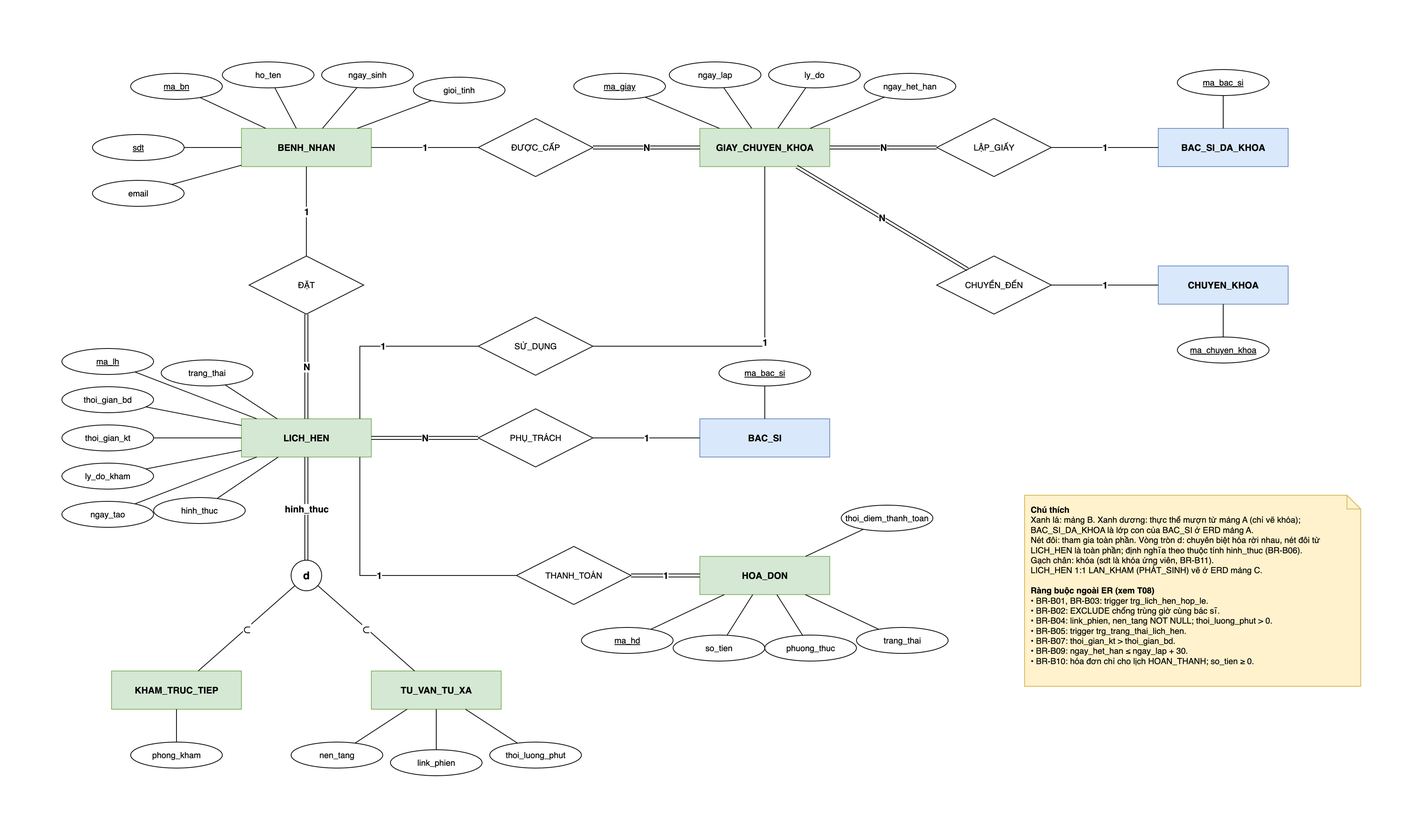
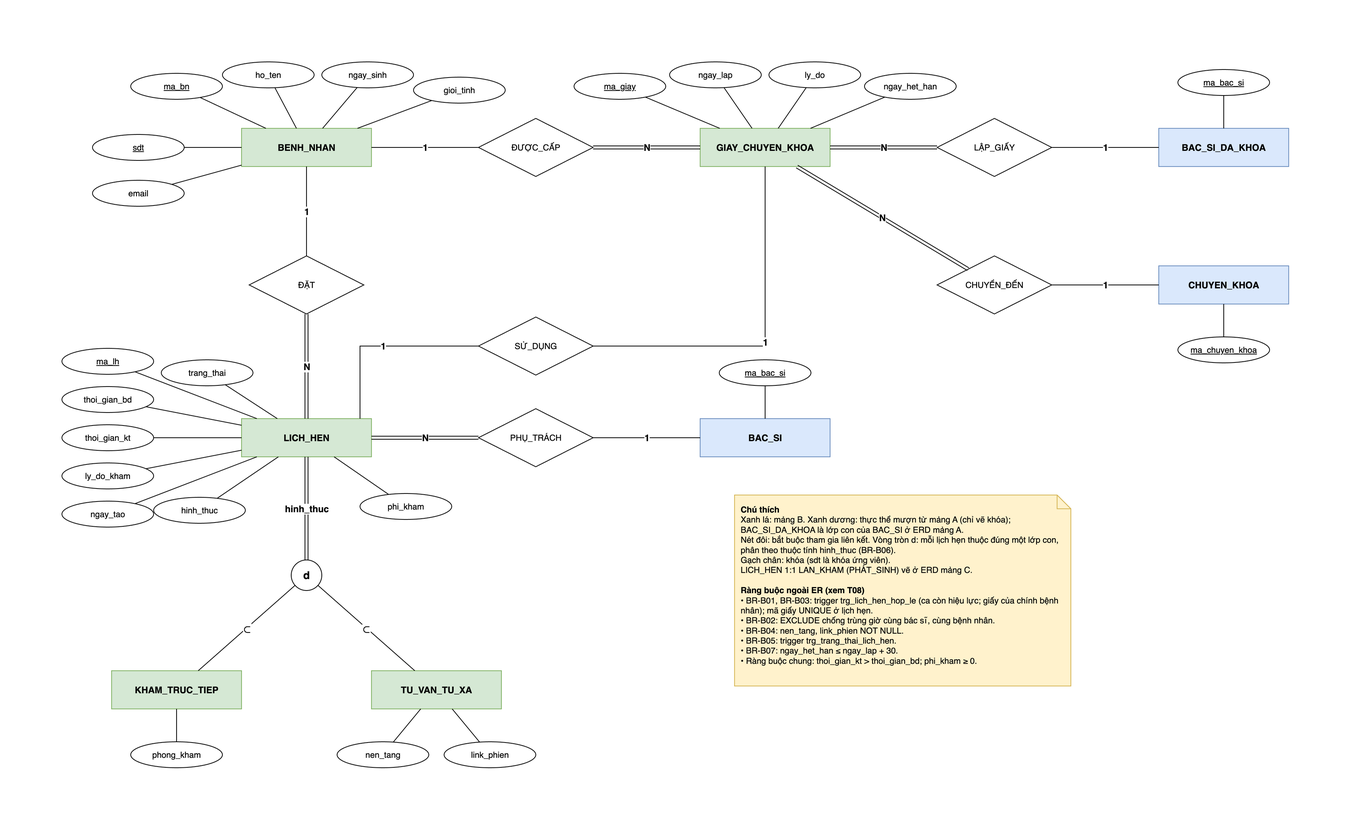
T03 T08 T12: mảng B – khảo sát, quy tắc nghiệp vụ, ERD
- T03: khảo sát theo ISO/IEC/IEEE 29148; bổ sung quy định khám từ xa, phiếu khám điện tử
- T08: thu gọn còn BR-B01…B07, viết theo Business Rules Manifesto/SBVR
- T12: ERD B bỏ HOA_DON (thành phi_kham), cập nhật ghi chú

diff --git a/docs/br/T08_BR_MangB.md b/docs/br/T08_BR_MangB.md
@@ -4,63 +4,84 @@
 |---|---|
 | Mã việc | T08 (GĐ0, tuần 2) |
 | Người viết / review | Lê Ngọc Khôi / Đặng Hữu Khoa |
-| Dùng cho | Báo cáo mục 1.2.2 (gộp ở T10), ERD mảng B (T12), test 5.1 (T43) |
-| Căn cứ | [T03 – khảo sát mảng B](../khao-sat/T03_KhaoSat_MangB.md), sườn báo cáo v0 |
+| Ngày | 08/10/2026; cập nhật 19/10/2026 theo phạm vi đã chốt |
+| Chuẩn tham chiếu | Business Rules Manifesto (Business Rules Group), SBVR (OMG); thuộc tính yêu cầu theo ISO/IEC/IEEE 29148:2018 |
+| Căn cứ | [T03 – khảo sát mảng B](../khao-sat/T03_KhaoSat_MangB.md) |
+| Dùng cho | Báo cáo mục 1.2.2, T12 (ERD mảng B), T36 (trigger/view), T43 (kiểm thử) |
 
-BR-B01…B05 giữ đúng số hiệu như bản v0, vì mục 4.1.4 và 5.1 đã tham chiếu. Bảng này thay cho bảng quy tắc ở mục 5 của T03.
+Nguyên tắc viết: mỗi quy tắc là một phát biểu khẳng định, dùng thuật ngữ ở mục 1, không phụ thuộc cách cài đặt; cơ chế cài đặt tách riêng ở mục 3. Số hiệu BR-B01…B05 giữ nguyên vì báo cáo đã tham chiếu.
 
-## Thuật ngữ dùng trong quy tắc
+## 1. Thuật ngữ
 
-- **Lịch hẹn còn hiệu lực**: lịch hẹn có trạng thái khác HUY và VANG_MAT.
-- **Giao nhau về thời gian**: hai khoảng [bắt đầu, kết thúc) có phần chung. Hẹn nối tiếp nhau, ví dụ 9:00–9:15 và 9:15–9:30, không bị tính là giao nhau.
-
-## Bảng quy tắc (dán vào mục 1.2.2)
-
-| Mã | Phát biểu quy tắc | Loại ràng buộc | Cơ chế đảm bảo |
-|---|---|---|---|
-| BR-B01 | Thời gian của một lịch hẹn phải nằm trọn trong một ca làm việc của bác sĩ được hẹn | Nghiệp vụ (liên bảng, mảng A) | Trigger `trg_lich_hen_hop_le` |
-| BR-B02 | Hai lịch hẹn còn hiệu lực của cùng một bác sĩ không được giao nhau về thời gian | Nghiệp vụ | `EXCLUDE USING gist` (cần extension `btree_gist`) |
-| BR-B03 | Lịch hẹn với bác sĩ chuyên khoa phải kèm giấy chuyển chuyên khoa còn hạn, đúng chuyên khoa, nếu bệnh nhân **chưa từng** có lịch hẹn HOAN_THANH ở chuyên khoa đó (tái khám không cần giấy) | Nghiệp vụ | Trigger `trg_lich_hen_hop_le` |
-| BR-B04 | Lịch hẹn tư vấn từ xa bắt buộc có nền tảng, đường dẫn phiên và thời lượng > 0 phút | Miền giá trị | NOT NULL + CHECK |
-| BR-B05 | Lịch hẹn mới luôn ở trạng thái DA_DAT. Trạng thái chỉ được chuyển: DA_DAT → DA_XAC_NHAN hoặc HUY; DA_XAC_NHAN → HOAN_THANH, HUY hoặc VANG_MAT. HOAN_THANH, HUY, VANG_MAT là trạng thái cuối | Nghiệp vụ (chuyển trạng thái) | CHECK miền giá trị + DEFAULT + trigger `trg_trang_thai_lich_hen` |
-| BR-B06 | Mỗi lịch hẹn thuộc đúng một hình thức: khám trực tiếp hoặc tư vấn từ xa | Phân lớp (d, total) | Cột phân loại + CHECK; chi tiết theo phương án ánh xạ ở 2.2 |
-| BR-B07 | Thời gian kết thúc của lịch hẹn phải sau thời gian bắt đầu | Miền giá trị | CHECK |
-| BR-B08 | Mỗi giấy chuyển chuyên khoa chỉ được dùng cho tối đa một lịch hẹn | Bản số | UNIQUE trên cột mã giấy của lịch hẹn |
-| BR-B09 | Giấy chuyển chuyên khoa chỉ do bác sĩ đa khoa lập, hiệu lực tối đa 30 ngày kể từ ngày lập | Phân lớp + miền giá trị | FK tới lớp bác sĩ đa khoa (mảng A) + CHECK |
-| BR-B10 | Mỗi lịch hẹn có tối đa một hóa đơn, chỉ lập cho lịch hẹn HOAN_THANH, số tiền ≥ 0 | Bản số + nghiệp vụ | UNIQUE + CHECK + trigger |
-| BR-B11 | Số điện thoại của bệnh nhân không trùng nhau | Khóa (khóa ứng viên) | UNIQUE |
-
-## Cách kiểm chứng (đầu vào T43)
-
-Mỗi quy tắc có ít nhất một thao tác sai phải bị CSDL từ chối:
-
-| Mã | Thao tác thử (phải bị từ chối) |
+| Thuật ngữ | Định nghĩa |
 |---|---|
-| BR-B01 | INSERT lịch hẹn 18:00–18:15 khi ca của bác sĩ là 07:00–11:00 |
-| BR-B02 | INSERT lịch 9:00–9:30 khi bác sĩ đã có lịch DA_XAC_NHAN 9:15–9:45. Ngược lại, nếu lịch cũ đã HUY thì INSERT phải **thành công** |
-| BR-B03 | INSERT lịch với BS chuyên khoa Tim mạch cho bệnh nhân chưa từng khám Tim mạch, không kèm giấy chuyển |
-| BR-B04 | INSERT tư vấn từ xa có link phiên NULL, hoặc thời lượng = 0 |
-| BR-B05 | UPDATE lịch hẹn từ HOAN_THANH về DA_DAT; UPDATE từ DA_DAT thẳng sang HOAN_THANH |
-| BR-B06 | Gán một lịch hẹn vào cả hai lớp trực tiếp và từ xa |
-| BR-B07 | INSERT lịch hẹn có kết thúc = bắt đầu |
-| BR-B08 | Dùng cùng một mã giấy chuyển cho lịch hẹn thứ hai |
-| BR-B09 | INSERT giấy chuyển do bác sĩ chuyên khoa lập; hoặc giấy có ngày hết hạn = ngày lập + 45 |
-| BR-B10 | INSERT hóa đơn cho lịch hẹn DA_XAC_NHAN; INSERT hóa đơn thứ hai cho cùng lịch hẹn |
-| BR-B11 | INSERT bệnh nhân trùng số điện thoại |
+| Ca làm việc | Khoảng thời gian bác sĩ được xếp làm việc |
+| Ca làm việc còn hiệu lực | Khoảng thời gian làm việc đã xếp và chưa bị hủy |
+| Lịch hẹn còn hiệu lực | Cuộc hẹn chưa bị hủy và không phải trường hợp bệnh nhân vắng mặt |
+| Giao nhau về thời gian | Hai khoảng thời gian có phần chung; hai cuộc hẹn nối tiếp nhau, cuộc trước kết thúc đúng lúc cuộc sau bắt đầu, không tính là giao nhau |
+| Tư vấn từ xa | Khám qua cuộc gọi video thay vì đến phòng khám |
+| Giấy chuyển chuyên khoa | Giấy do bác sĩ đa khoa lập để bệnh nhân được khám bác sĩ chuyên khoa trong cùng phòng khám |
+| Tái khám | Bệnh nhân đã từng được khám xong ở cùng chuyên khoa |
 
-## Liên kết mục tiêu (mục 1.1)
+## 2. Danh sách quy tắc
 
-- MT-02 (lịch hẹn không xung đột): BR-B01, BR-B02, BR-B07
-- MT-03 (khám trực tiếp và từ xa): BR-B04, BR-B06
+Loại theo SBVR: **cấu trúc** là điều luôn đúng với dữ liệu; **hành vi** là điều kiện ràng buộc một thao tác.
 
-## Phụ thuộc mảng A (nhờ Hữu Khoa xác nhận khi review)
+| Mã | Phát biểu quy tắc | Loại | Lý do | Nguồn |
+|---|---|---|---|---|
+| BR-B01 | Thời gian của mỗi lịch hẹn phải nằm trọn trong một ca làm việc còn hiệu lực của bác sĩ được hẹn | Hành vi | Bác sĩ chỉ khám trong giờ làm việc | T03 bước 1; MT-02 |
+| BR-B02 | Hai lịch hẹn còn hiệu lực của cùng một bác sĩ, hoặc của cùng một bệnh nhân, không được giao nhau về thời gian | Cấu trúc | Bác sĩ không khám hai bệnh nhân cùng lúc; bệnh nhân không khám hai nơi cùng lúc | T03 bước 1; MT-02 |
+| BR-B03 | Lịch hẹn với bác sĩ chuyên khoa phải kèm một giấy chuyển chuyên khoa cấp cho chính bệnh nhân đó, còn hạn, đúng chuyên khoa và chưa dùng cho lịch hẹn khác, trừ khi là tái khám | Hành vi | Bệnh nhân khám chuyên khoa lần đầu phải qua bác sĩ đa khoa | T03 bước 5 |
+| BR-B04 | Mỗi lịch hẹn tư vấn từ xa phải có nền tảng và đường dẫn phiên | Cấu trúc | Bệnh nhân cần thông tin để vào cuộc gọi | T03 bước 4; MT-03 |
+| BR-B05 | Lịch hẹn mới luôn ở trạng thái đã đặt; chỉ được chuyển từ đã đặt sang đã xác nhận hoặc hủy, từ đã xác nhận sang hoàn thành, hủy hoặc vắng mặt; hoàn thành, hủy, vắng mặt là trạng thái cuối | Hành vi | Không sửa lại lịch hẹn đã kết thúc | T03 bước 2, sơ đồ trạng thái |
+| BR-B06 | Mỗi lịch hẹn thuộc đúng một hình thức: khám trực tiếp hoặc tư vấn từ xa | Cấu trúc | Mỗi hình thức có thông tin riêng | T03 bước 1; MT-03 |
+| BR-B07 | Giấy chuyển chuyên khoa chỉ do bác sĩ đa khoa lập và có hiệu lực tối đa 30 ngày kể từ ngày lập | Cấu trúc | Phân biệt vai trò bác sĩ đa khoa và chuyên khoa | T03 bước 5 |
 
-- BR-B01 cần bảng ca làm việc có bác sĩ, ngày, giờ bắt đầu, giờ kết thúc.
-- BR-B03 cần biết bác sĩ chuyên khoa thuộc chuyên khoa nào.
-- BR-B09 cần tham chiếu được riêng lớp bác sĩ đa khoa. Điều này phụ thuộc phương án ánh xạ 8A/8B/8C. Nếu chọn phương án gộp một bảng (8C) thì BR-B09 chuyển sang dùng trigger.
+## 3. Cơ chế đảm bảo
 
-## Đã chốt so với T03
+| Mã | Cơ chế trong CSDL | Ghi chú |
+|---|---|---|
+| BR-B01 | Trigger `trg_lich_hen_hop_le` trên INSERT/UPDATE `LICH_HEN`: tồn tại ca làm việc khác `HUY` của bác sĩ chứa khoảng thời gian hẹn | Liên bảng với mảng A |
+| BR-B02 | Hai ràng buộc `EXCLUDE USING gist`: (`ma_bac_si` WITH =, khoảng thời gian WITH &&) và (`ma_bn` WITH =, khoảng thời gian WITH &&), chỉ áp dụng cho trạng thái khác `HUY`, `VANG_MAT` | Cần extension `btree_gist` |
+| BR-B03 | Trigger `trg_lich_hen_hop_le` kiểm tra giấy cùng `ma_bn` với lịch hẹn, còn hạn, đúng chuyên khoa, và trường hợp tái khám; UNIQUE trên cột mã giấy của `LICH_HEN` | Tái khám: đã có lịch `HOAN_THANH` ở cùng chuyên khoa |
+| BR-B04 | `NOT NULL` trên `nen_tang`, `link_phien` | Thời lượng tính từ thời điểm bắt đầu, kết thúc của lịch hẹn, không lưu riêng |
+| BR-B05 | `CHECK` miền giá trị + `DEFAULT 'DA_DAT'` + trigger `trg_trang_thai_lich_hen` | Trạng thái: `DA_DAT`, `DA_XAC_NHAN`, `HOAN_THANH`, `HUY`, `VANG_MAT` |
+| BR-B06 | Cột phân loại `hinh_thuc` + `CHECK` | Chi tiết theo phương án ánh xạ ở 2.2 |
+| BR-B07 | FK tới lớp bác sĩ đa khoa + `CHECK (ngay_het_han <= ngay_lap + 30)` | Nếu chọn ánh xạ 8C (một bảng bác sĩ) thì phần bác sĩ đa khoa chuyển sang trigger |
 
-- Giờ hẹn lưu dạng khoảng thời gian (bắt đầu, kết thúc) và dùng EXCLUDE để chống trùng. Không làm bảng khung giờ.
-- Tái khám được miễn giấy chuyển. "Tái khám" nghĩa là bệnh nhân đã có lịch hẹn HOAN_THANH ở cùng chuyên khoa.
-- Không có thực thể BAO_HIEM_Y_TE trong mảng B.
+## 4. Kiểm chứng (đầu vào T43)
+
+Chạy trên dữ liệu giả lập, ghi rõ bản ghi tiền điều kiện và kết quả thực tế.
+
+| Mã test | Quy tắc | Thao tác sai phải bị từ chối | Thao tác hợp lệ đi kèm |
+|---|---|---|---|
+| TC-02 | BR-B01 | Đặt lịch 18:00–18:15 khi ca của bác sĩ là 07:00–11:00; hoặc đặt vào ca đã hủy | Đặt lịch 08:00–08:15 trong ca còn hiệu lực |
+| TC-01 | BR-B02 | Đặt lịch 9:00–9:30 khi bác sĩ, hoặc bệnh nhân, đã có lịch `DA_XAC_NHAN` 9:15–9:45 | Cùng thao tác khi lịch cũ đã `HUY` |
+| – | BR-B03 | Đặt lịch bác sĩ chuyên khoa Tim mạch cho bệnh nhân chưa từng khám Tim mạch, không kèm giấy; dùng giấy của bệnh nhân khác; hoặc dùng lại giấy đã gắn với lịch khác | Đặt lịch kèm giấy hợp lệ, hoặc tái khám không cần giấy |
+| – | BR-B04 | Tư vấn từ xa không có nền tảng hoặc link phiên | Tư vấn từ xa đủ nền tảng, link phiên |
+| – | BR-B05 | Chuyển `HOAN_THANH` về `DA_DAT`; chuyển `DA_DAT` thẳng sang `HOAN_THANH` | Chuyển `DA_DAT` → `DA_XAC_NHAN` → `HOAN_THANH` |
+| – | BR-B06 | Gán một lịch hẹn vào cả hai hình thức | Lịch hẹn thuộc đúng một hình thức |
+| – | BR-B07 | Giấy chuyển do bác sĩ chuyên khoa lập; hoặc ngày hết hạn = ngày lập + 45 | Giấy do bác sĩ đa khoa lập, hạn 30 ngày |
+
+TC-01, TC-02 giữ số hiệu như báo cáo; các quy tắc còn lại đánh mã test khi gộp `tests.sql`.
+
+## 5. Phụ thuộc mảng A, C
+
+| Quy tắc | Dùng từ mảng khác | Nội dung |
+|---|---|---|
+| BR-B01 | A: `CA_LAM_VIEC` | Ca làm việc có bác sĩ, thời điểm bắt đầu, kết thúc |
+| BR-B02 | A: `BAC_SI` | Khóa bác sĩ dùng trong EXCLUDE |
+| BR-B03 | A: `BAC_SI_CHUYEN_KHOA`, `CHUYEN_KHOA` | Chuyên khoa của bác sĩ được hẹn |
+| BR-B07 | A: `BAC_SI_DA_KHOA` | Phụ thuộc phương án ánh xạ phân lớp bác sĩ |
+| BR-B05 | C: BR-C02 dùng lại | Lần khám chỉ tạo cho lịch `HOAN_THANH` |
+
+## 6. Quyết định thiết kế đã chốt
+
+- Giờ hẹn lưu dạng khoảng thời gian (bắt đầu, kết thúc); không làm bảng khung giờ.
+- Chuyên khoa của lịch hẹn lấy qua bác sĩ, không lưu riêng.
+- Phí khám là thuộc tính `phi_kham` của lịch hẹn.
+- Không cấp số thứ tự khám; mỗi lịch hẹn có khoảng giờ riêng.
+- Tư vấn từ xa dùng chung lần khám, chẩn đoán, đơn thuốc với khám trực tiếp; không kiểm tra bệnh có thuộc danh mục được khám từ xa (Thông tư 30/2023/TT-BYT).
+- Giấy chuyển chuyên khoa là quy trình nội bộ trong một phòng khám, không liên quan chuyển người bệnh theo BHYT.
+- Lễ tân là người dùng hệ thống với role CSDL `r_le_tan`, không phải thực thể.
+- Các ràng buộc đơn giản nằm ở ràng buộc chung (báo cáo mục 1.2.4), vẫn cài trong DDL: thời gian kết thúc sau bắt đầu, `sdt` của bệnh nhân không trùng, `phi_kham` không âm.

diff --git a/docs/khao-sat/T03_KhaoSat_MangB.md b/docs/khao-sat/T03_KhaoSat_MangB.md
@@ -1,54 +1,44 @@
-# T03 – Ghi chú khảo sát mảng B: Bệnh nhân & Lịch hẹn
+# T03 – Báo cáo khảo sát mảng B: Bệnh nhân & Lịch hẹn
 
 | | |
 |---|---|
 | Mã việc | T03 (GĐ0, tuần 1) |
-| Người làm / review | Lê Ngọc Khôi / Nguyễn Đăng Khoa |
-| Ngày | 08/10/2026 |
+| Người thực hiện / review | Lê Ngọc Khôi / Nguyễn Đăng Khoa |
+| Ngày | 08/10/2026; cập nhật 19/10/2026 theo phạm vi đã chốt |
+| Chuẩn tham chiếu | ISO/IEC/IEEE 29148:2018 – thu thập và phân tích yêu cầu |
 | Dùng cho | T08 (BR-B), T12 (ERD mảng B) |
 
-Mục tiêu: rút ra **thực thể, thuộc tính, trạng thái và quy tắc** đủ cho một CSDL đồ án môn học. Không mô tả đầy đủ nghiệp vụ y tế thật.
+## 1. Thông tin khảo sát
 
-## 1. Phạm vi mảng B
-
-| Trong phạm vi | Ngoài phạm vi (đơn giản hóa) |
+| Mục | Nội dung |
 |---|---|
-| Hồ sơ bệnh nhân | Tài khoản đăng nhập, đặt hộ người thân |
-| Đặt lịch: khám trực tiếp / tư vấn từ xa | Cuộc gọi video thật (chỉ lưu link phiên) |
-| Chuyển chuyên khoa (quy trình nội bộ phòng khám) | Chuyển tuyến BHYT giữa các cơ sở |
-| Hóa đơn: 1 lịch hẹn – 1 hóa đơn | Cổng thanh toán thật, BHYT chi trả, hoàn tiền, hóa đơn điện tử theo luật thuế |
+| Mục tiêu | Xác định dữ liệu, trạng thái và quy tắc cần lưu cho việc đặt và quản lý lịch hẹn khám, đủ cho một CSDL đồ án môn học |
+| Phạm vi | Bệnh nhân, lịch hẹn khám trực tiếp / tư vấn từ xa, giấy chuyển chuyên khoa nội bộ, phí khám |
+| Ngoài phạm vi | Tài khoản đăng nhập, đặt hộ người thân, cuộc gọi video, BHYT |
+| Đối tượng khảo sát | Luồng đặt khám của 3 ứng dụng đặt khám phổ biến tại Việt Nam: Medpro, YouMed, BookingCare; quy định về khám bệnh, chữa bệnh từ xa và chuyển người bệnh |
+| Phương pháp | Phân tích ứng dụng hiện có (đi qua luồng đặt lịch, ghi lại các trường dữ liệu và trạng thái) và nghiên cứu văn bản pháp lý liên quan. Không phỏng vấn trực tiếp nhân viên y tế |
+| Giới hạn | Không mô tả đầy đủ nghiệp vụ y tế thật; quy trình ở mục 3 là phần chung của ba ứng dụng, đã lược bớt chi tiết riêng của từng nơi |
 
-## 2. Quy trình khảo sát được
+## 2. Bên liên quan
 
-Tham khảo các ứng dụng đặt khám Medpro, YouMed và BookingCare. Cả ba có luồng chung như sau:
+| Bên liên quan | Vai trò trong quy trình | Nhu cầu dữ liệu | Trong ERD |
+|---|---|---|---|
+| Bệnh nhân | Đặt lịch, khám trực tiếp hoặc tư vấn từ xa | Xem lịch hẹn của mình | Thực thể BENH_NHAN |
+| Lễ tân | Đặt hộ, xác nhận, hủy lịch hẹn | Thêm, sửa bệnh nhân và lịch hẹn; xem lịch làm việc bác sĩ | Không – role `r_le_tan` |
+| Bác sĩ đa khoa | Khám, lập giấy chuyển chuyên khoa | Xem lịch hẹn của mình; lập giấy chuyển | Thực thể BAC_SI_DA_KHOA (mảng A) |
+| Bác sĩ chuyên khoa | Khám theo chuyên khoa khi có giấy chuyển hoặc tái khám | Xem lịch hẹn của mình | Thực thể BAC_SI_CHUYEN_KHOA (mảng A) |
 
-1. **Đặt lịch**: chọn hình thức (trực tiếp / video) → chuyên khoa → bác sĩ → ngày, giờ còn trống trong lịch làm việc của bác sĩ → nhập thông tin bệnh nhân, lý do khám. Bệnh nhân tự đặt hoặc lễ tân đặt hộ.
-2. **Xác nhận**: lễ tân xác nhận lịch. Với tư vấn từ xa, các app bắt thanh toán trước rồi mới xác nhận.
-3. **Khám trực tiếp**: bệnh nhân đến đúng giờ, bác sĩ khám. Phần khám, chẩn đoán, kê đơn thuộc **mảng C** (LAN_KHAM).
+Tác nhân ghi "Không" là người dùng hệ thống: chỉ có role CSDL để phân quyền, không lưu thành thực thể trong ERD.
+
+## 3. Hiện trạng quy trình
+
+1. **Đặt lịch**: chọn hình thức (trực tiếp / video) → chuyên khoa → bác sĩ → ngày, giờ còn trống trong lịch làm việc của bác sĩ → xem phí khám → nhập thông tin bệnh nhân, lý do khám. Bệnh nhân tự đặt hoặc lễ tân đặt hộ.
+2. **Xác nhận**: lễ tân xác nhận lịch.
+3. **Khám trực tiếp**: bệnh nhân đến đúng giờ tại phòng khám, bác sĩ khám. Phần khám, chẩn đoán, kê đơn thuộc **mảng C**.
 4. **Tư vấn từ xa**: giống khám trực tiếp, nhưng bệnh nhân vào cuộc gọi qua link vào giờ hẹn.
 5. **Chuyển chuyên khoa**: bác sĩ đa khoa thấy cần thì lập giấy chuyển, bệnh nhân dùng giấy đó để đặt lịch chuyên khoa.
-6. **Thanh toán**: thu phí theo lịch hẹn, gồm tiền mặt, chuyển khoản và ví điện tử.
 
-Lưu ý cho báo cáo mục 1: từ 01/7/2025, Luật BHYT sửa đổi (51/2024/QH15) đã thay "chuyển tuyến" bằng "chuyển người bệnh giữa các cơ sở". Giấy chuyển chuyên khoa của nhóm chỉ là **quy trình nội bộ trong một phòng khám**, không liên quan BHYT.
-
-## 3. Thực thể đề xuất (đầu vào T12)
-
-| Thực thể | Thuộc tính chính | Liên kết |
-|---|---|---|
-| BENH_NHAN | ma_bn, ho_ten, ngay_sinh, gioi_tinh, sdt (UNIQUE), email | 1:N LICH_HEN |
-| LICH_HEN (lớp cha) | ma_lh, thoi_gian_bd, thoi_gian_kt, ly_do_kham, trang_thai, ngay_tao | N:1 BENH_NHAN, BAC_SI (A); 1:1 LAN_KHAM (C) |
-| KHAM_TRUC_TIEP (lớp con) | phong_kham | ISA LICH_HEN |
-| TU_VAN_TU_XA (lớp con) | nen_tang, link_phien, thoi_luong_phut | ISA LICH_HEN |
-| GIAY_CHUYEN_KHOA | ma_giay, ngay_lap, ly_do, ngay_het_han | N:1 BENH_NHAN, BAC_SI_DA_KHOA (A), CHUYEN_KHOA (A); 0..1 LICH_HEN dùng giấy |
-| HOA_DON | ma_hd, so_tien, phuong_thuc, trang_thai, thoi_diem_thanh_toan | 1:1 LICH_HEN |
-
-- Phân lớp LICH_HEN → {KHAM_TRUC_TIEP, TU_VAN_TU_XA}: **disjoint, total** (mỗi lịch hẹn có đúng một hình thức). Đây là điểm EER của mảng B.
-- Chuyên khoa của lịch hẹn lấy qua bác sĩ, nên không cần cột riêng.
-- Cần thống nhất với Hữu Khoa: tên khóa của BAC_SI, CA_LAM_VIEC, CHUYEN_KHOA. Cần thống nhất với Đăng Khoa: LAN_KHAM có `ma_lh` UNIQUE NOT NULL.
-
-## 4. Trạng thái lịch hẹn
-
-Giữ 5 trạng thái như v0:
+Trạng thái lịch hẹn quan sát được:
 
 ```mermaid
 stateDiagram-v2
@@ -60,28 +50,69 @@ stateDiagram-v2
     DA_XAC_NHAN --> VANG_MAT
 ```
 
-Lịch hẹn ở trạng thái HUY hoặc VANG_MAT **không chiếm giờ** của bác sĩ. Ràng buộc chống trùng giờ bỏ qua hai trạng thái này.
+Lịch hẹn HUY hoặc VANG_MAT **không chiếm giờ** của bác sĩ.
 
-## 5. Quy tắc nghiệp vụ đề xuất (đầu vào T08)
+Quy định và thực tế liên quan:
 
-| Mã | Phát biểu | Cơ chế |
+| Nội dung | Quy định / quan sát | Ảnh hưởng tới CSDL |
 |---|---|---|
-| BR-B01 | Lịch hẹn nằm trọn trong một ca làm việc của bác sĩ được hẹn | Trigger `trg_lich_hen_hop_le` |
-| BR-B02 | Một bác sĩ không có hai lịch hẹn trùng giờ (trừ HUY, VANG_MAT) | `EXCLUDE USING gist` trên (ma_bac_si, khoảng thời gian) |
-| BR-B03 | Khám bác sĩ chuyên khoa cần giấy chuyển còn hạn, đúng chuyên khoa, chưa dùng | Trigger + UNIQUE trên cột ma_giay của LICH_HEN |
-| BR-B04 | Tư vấn từ xa bắt buộc có link phiên và thời lượng > 0 | NOT NULL + CHECK |
-| BR-B05 | Trạng thái chỉ chuyển theo sơ đồ mục 4 | Trigger `trg_trang_thai_lich_hen` |
-| BR-B06 | thoi_gian_kt > thoi_gian_bd | CHECK |
-| BR-B07 | Chỉ lập hóa đơn cho lịch hẹn HOAN_THANH; so_tien ≥ 0 | CHECK + trigger |
+| Khám chữa bệnh từ xa | Luật Khám bệnh, chữa bệnh 15/2023/QH15 cho phép khám, chữa bệnh từ xa; Thông tư 30/2023/TT-BYT ban hành danh mục 50 bệnh được khám chữa bệnh từ xa, hiệu lực 01/01/2024. Người hành nghề chịu trách nhiệm về chẩn đoán, kê đơn như khám trực tiếp | Tư vấn từ xa là một hình thức của lịch hẹn; lần khám, chẩn đoán, đơn thuốc dùng chung với khám trực tiếp. Không kiểm tra bệnh có thuộc danh mục |
+| Phiếu khám điện tử | Medpro: sau khi đặt, bệnh nhân nhận phiếu khám điện tử có giờ khám dự kiến và số thứ tự; hôm khám trình phiếu cho nhân viên để xác nhận | Lịch hẹn lưu khoảng giờ hẹn; không cấp số thứ tự |
+| Chuyển người bệnh | Từ 01/7/2025, Luật BHYT sửa đổi (51/2024/QH15) thay "chuyển tuyến" bằng "chuyển người bệnh giữa các cơ sở" | Giấy chuyển chuyên khoa của nhóm chỉ là **quy trình nội bộ trong một phòng khám**, không liên quan BHYT |
 
-## 6. Cần chốt trong buổi họp
+## 4. Yêu cầu đối với CSDL
 
-1. Lưu khung giờ dạng **khoảng thời gian bất kỳ** (đề xuất: gọn, dùng được EXCLUDE của PostgreSQL) hay tạo sẵn bảng khung giờ?
-2. BR-B03 có miễn cho **tái khám** như v0 không? Nếu miễn thì định nghĩa: đã có lịch HOAN_THANH với cùng bác sĩ trong 30 ngày.
+Rút ra từ quy trình; phát biểu chính thức, đánh số và cách kiểm chứng ở [T08](../br/T08_BR_MangB.md).
+
+| Nguồn trong quy trình | Yêu cầu | Quy tắc |
+|---|---|---|
+| Bước 1: chỉ chọn giờ còn trống trong lịch làm việc | Lịch hẹn nằm trong ca của bác sĩ; không trùng lịch khác của bác sĩ hay của bệnh nhân | BR-B01, BR-B02 |
+| Bước 5: khám chuyên khoa cần giấy chuyển | Lịch chuyên khoa phải kèm giấy chuyển hợp lệ của chính bệnh nhân, trừ tái khám | BR-B03 |
+| Bước 4: vào cuộc gọi qua link | Tư vấn từ xa bắt buộc có nền tảng, link phiên | BR-B04 |
+| Sơ đồ trạng thái | Trạng thái chỉ chuyển theo sơ đồ | BR-B05 |
+| Bước 1: chọn một hình thức | Mỗi lịch hẹn thuộc đúng một hình thức | BR-B06 |
+| Bước 5: bác sĩ đa khoa lập giấy | Chỉ bác sĩ đa khoa lập giấy; giấy có hạn | BR-B07 |
+
+## 5. Ràng buộc và giả định
+
+- Giờ hẹn lưu dạng khoảng thời gian (bắt đầu, kết thúc), không dùng bảng khung giờ cố định.
+- Chuyên khoa của lịch hẹn lấy qua bác sĩ, không lưu riêng.
+- Tái khám là bệnh nhân đã có lịch hẹn HOAN_THANH ở cùng chuyên khoa.
+- Phí khám là một thuộc tính của lịch hẹn.
+- Không cấp số thứ tự khám; mỗi lịch hẹn có khoảng giờ riêng.
+- Không kiểm tra bệnh của bệnh nhân có thuộc danh mục được khám từ xa.
+- Lễ tân là người dùng hệ thống, không phải thực thể: chỉ có role CSDL `r_le_tan` (thêm, sửa bệnh nhân và lịch hẹn; không xem bệnh án).
+
+## 6. Kết quả khảo sát (đầu vào T12)
+
+| Thực thể | Thuộc tính chính | Liên kết |
+|---|---|---|
+| BENH_NHAN | ma_bn, ho_ten, ngay_sinh, gioi_tinh, sdt (UNIQUE), email | 1:N LICH_HEN |
+| LICH_HEN (lớp cha) | ma_lh, thoi_gian_bd, thoi_gian_kt, ly_do_kham, trang_thai, hinh_thuc, phi_kham, ngay_tao | N:1 BENH_NHAN, BAC_SI (A); 1:1 LAN_KHAM (C) |
+| KHAM_TRUC_TIEP (lớp con) | phong_kham | ISA LICH_HEN |
+| TU_VAN_TU_XA (lớp con) | nen_tang, link_phien | ISA LICH_HEN; thời lượng tính từ giờ bắt đầu, kết thúc của lịch hẹn |
+| GIAY_CHUYEN_KHOA | ma_giay, ngay_lap, ly_do, ngay_het_han | N:1 BENH_NHAN, BAC_SI_DA_KHOA (A), CHUYEN_KHOA (A); 0..1 LICH_HEN dùng giấy |
+
+Các liên kết:
+
+| Liên kết | Thực thể tham gia | Tỉ số | Thuộc tính |
+|---|---|---|---|
+| ĐẶT | BENH_NHAN – LICH_HEN | 1:N | – |
+| PHỤ_TRÁCH | BAC_SI (A) – LICH_HEN | 1:N | – |
+| ĐƯỢC_CẤP | BENH_NHAN – GIAY_CHUYEN_KHOA | 1:N | – |
+| LẬP_GIẤY | BAC_SI_DA_KHOA (A) – GIAY_CHUYEN_KHOA | 1:N | – |
+| CHUYỂN_ĐẾN | CHUYEN_KHOA (A) – GIAY_CHUYEN_KHOA | 1:N | – |
+| SỬ_DỤNG | GIAY_CHUYEN_KHOA – LICH_HEN | 1:1 | – |
+
+Phân lớp LICH_HEN → {KHAM_TRUC_TIEP, TU_VAN_TU_XA}: mỗi lịch hẹn thuộc **đúng một** lớp con. Đây là điểm EER của mảng B.
 
 ## Nguồn tham khảo
 
 - Medpro – hình thức đặt khám: https://medpro.vn/cho-ray/hinh-thuc-dat-kham ; tư vấn online: https://medpro.vn/tin-tuc/tu-van-suc-khoe-online
 - YouMed (App Store): https://apps.apple.com/app/id1466077723
 - BookingCare (App Store): https://apps.apple.com/vn/app/id1347700144
+- Medpro – đặt lịch khám, lấy số thứ tự: https://medpro.vn/tin-tuc/dat-lich-kham-lay-so-thu-tu-tren-medpro
+- Thông tư 30/2023/TT-BYT – danh mục bệnh được khám bệnh, chữa bệnh từ xa: https://vbpl.vn/TW/Lists/vbpq/Attachments/178262/30_2023_TT-BYT_593328.doc
+- Luật Khám bệnh, chữa bệnh số 15/2023/QH15: https://thuvienphapluat.vn/van-ban/The-thao-Y-te/Luat-15-2023-QH15-kham-benh-chua-benh-372143.aspx
 - Điểm mới về chuyển tuyến BHYT từ 01/7/2025: https://luatvietnam.vn/bao-hiem/3-diem-moi-ve-chuyen-tuyen-bhyt-tu-ngay-01-7-2025-563-100345-article.html
+- ISO/IEC/IEEE 29148:2018 – Systems and software engineering — Life cycle processes — Requirements engineering.
